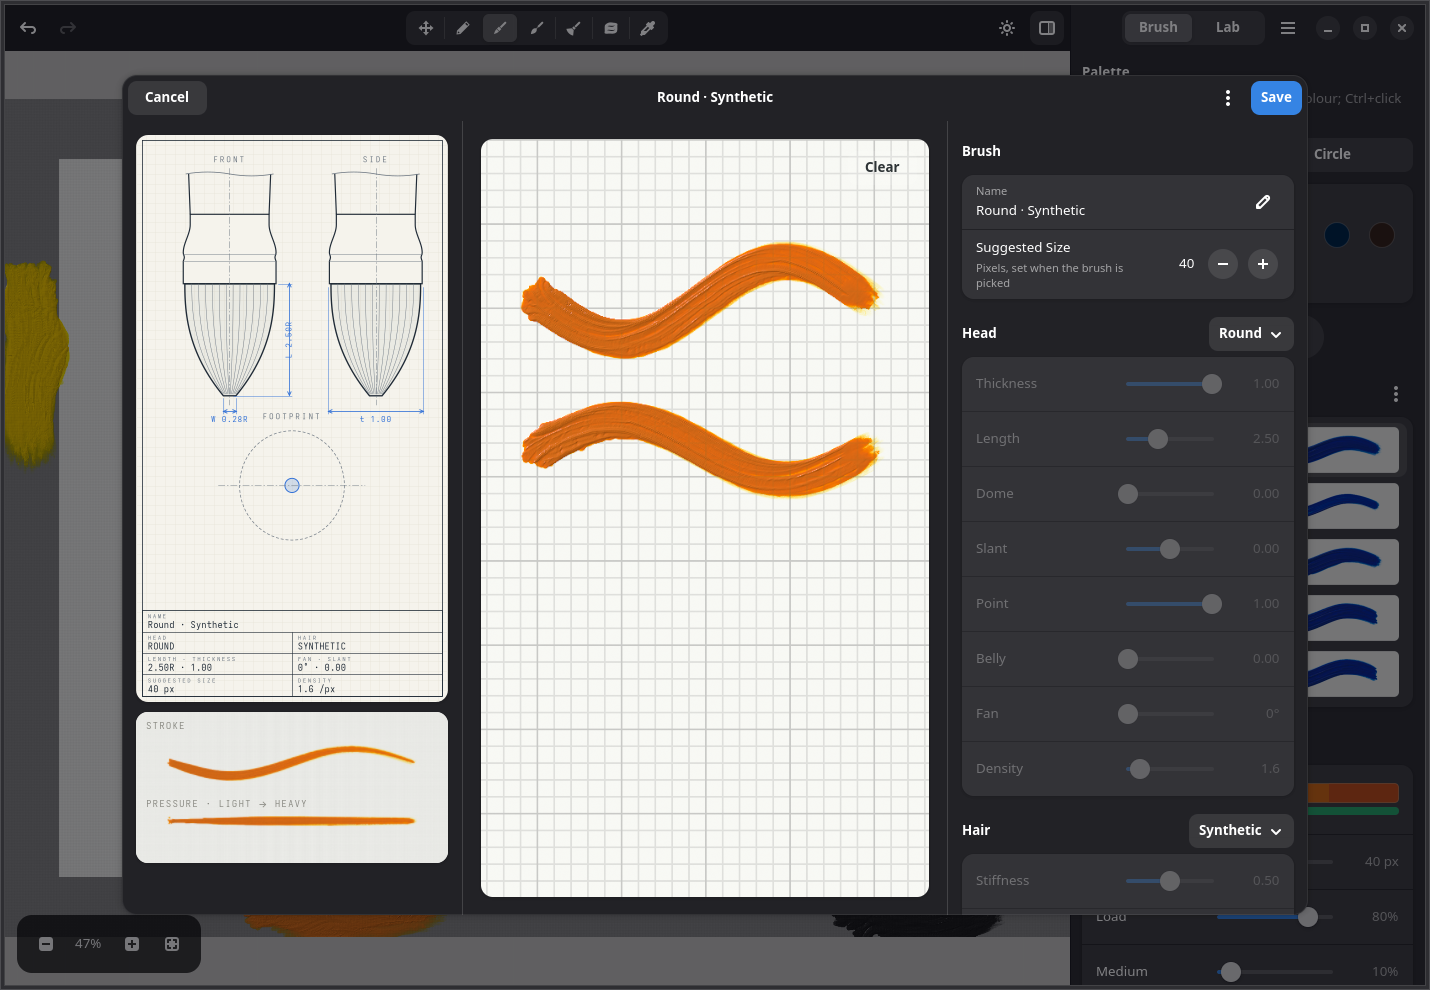
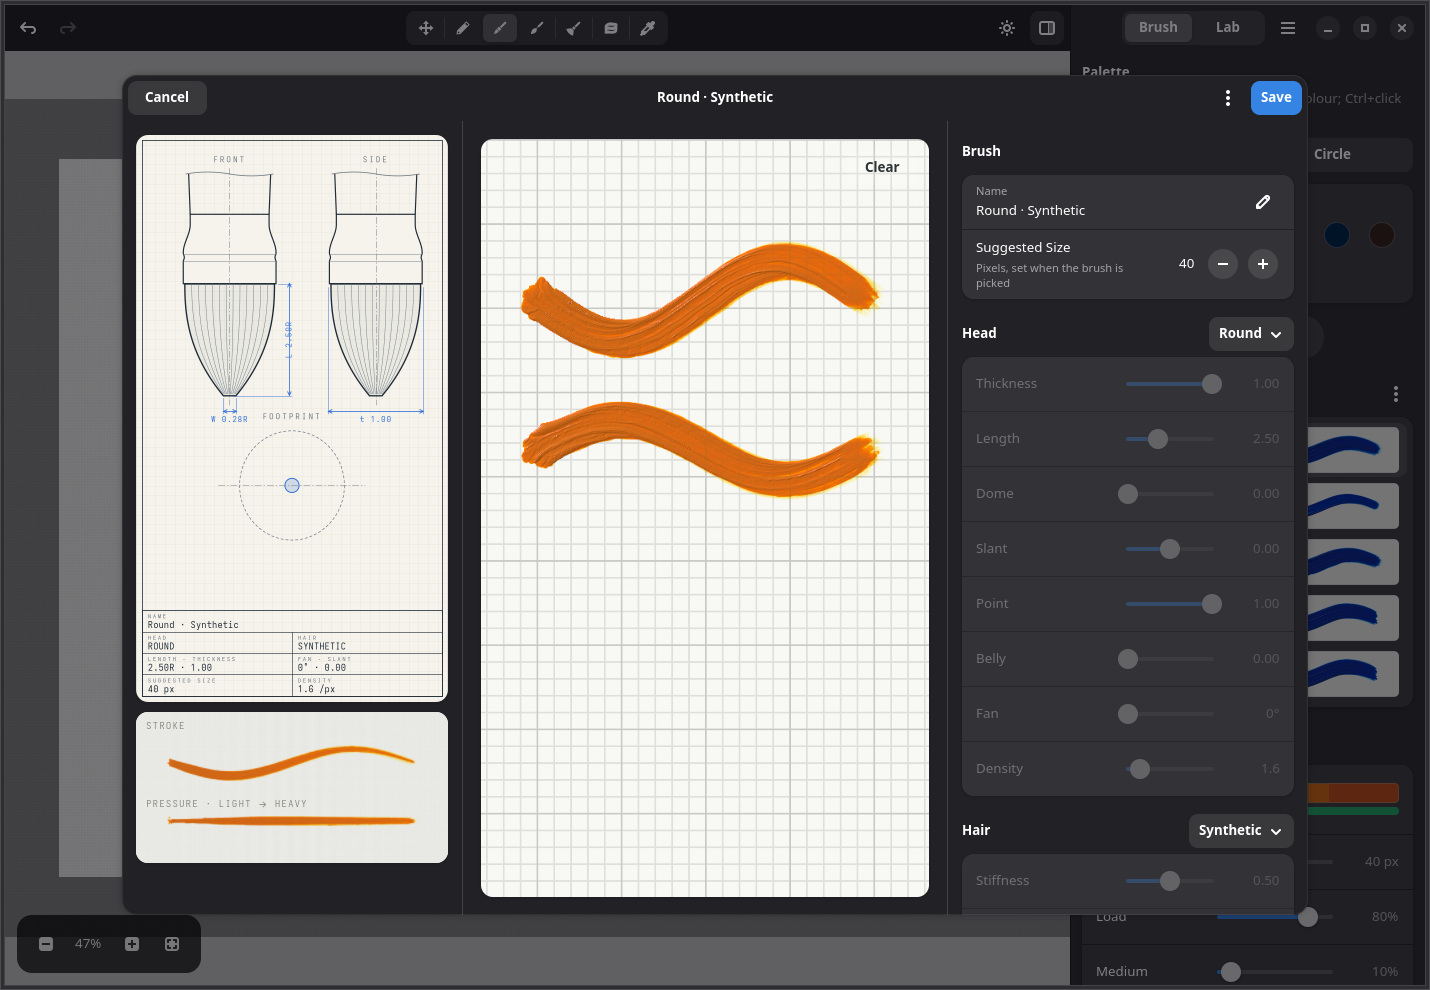
docs: show a single brush stroke in the main screenshot

Changed region(s): [[0.0, 0.2424, 0.0615, 0.4848], [0.1538, 0.9091, 0.3077, 0.9697], [0.5846, 0.9091, 0.7077, 0.9697]]

diff --git a/README.md b/README.md
@@ -17,7 +17,7 @@
 </p>
 
 <p align="center">
-  <a href=".github/images/screenshot.png"><img src=".github/images/screenshot.png" width="32%" alt="The Cadmium logo, painted in Cadmium"></a>
+  <a href=".github/images/screenshot.png"><img src=".github/images/screenshot.png" width="32%" alt="A brush stroke in Cadmium"></a>
   <a href=".github/images/brush-editor.png"><img src=".github/images/brush-editor.png" width="32%" alt="The brush editor"></a>
   <a href=".github/images/palette-editor.png"><img src=".github/images/palette-editor.png" width="32%" alt="Mixing paints in the Palette dialog"></a>
 </p>
